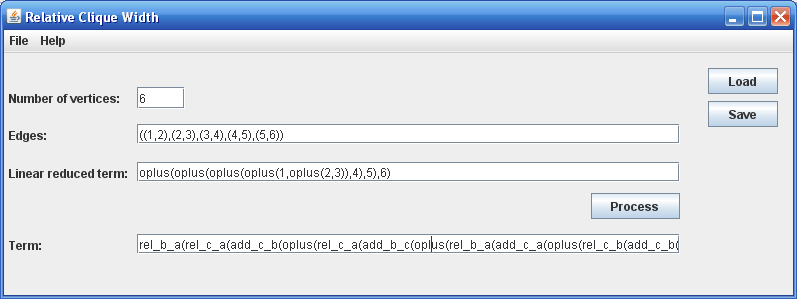
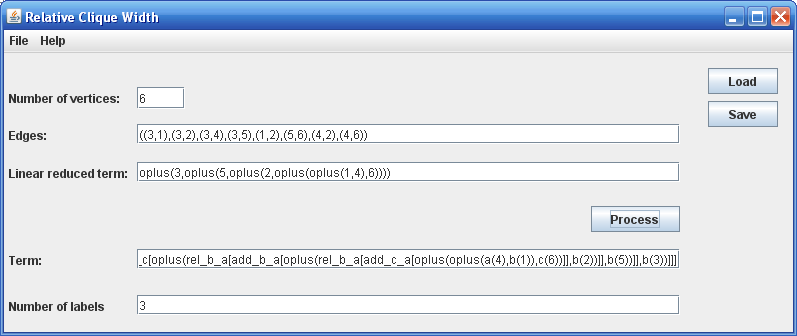
update UI, update report

diff --git a/report/Project-RelativeCliqueWidth_v1.tex b/report/Project-RelativeCliqueWidth_v1.tex
@@ -14,6 +14,7 @@
 \usepackage{algpseudocode}% http://ctan.org/pkg/algorithmicx
 \usepackage{listings}
 \usepackage[english]{babel} % for table %
+\usepackage{seqsplit}
 
 \begin{document}
 \title {Implementation of a polynomial time algorithm to determine relative clique-width of a graph}
@@ -161,7 +162,7 @@ it means \textit {$\gamma_{t(s)}$}assigns the same label to two vertices iff the
 \item \textit {$\gamma_{t(s_{1})}\cap\gamma_{t(s_{2})}=\emptyset$} \end{enumerate}
 \end{enumerate}
 
-Following is pseudo-code of a recursive function constructing a term for a linear reduced term {$s=rTerm\oplus vertex$}. This function uses some notations of Java programming language
+Algorithm 1 is pseudo-code of a recursive function constructing a term for a linear reduced term {$s=rTerm\oplus vertex$}. This function uses some notations of Java programming language
 
 \begin{algorithm}
 \caption{Term constructing algorithm}
@@ -197,7 +198,7 @@ If $s=s_{1}\oplus s_{2}$ is a sub-term of r, then every partite sets of \textit 
 \end{quotation}
 
 \begin{quotation}
-Call $U_{s_{1}}$and $U_{s_{2}}$is sets of partite set of $H_{s_{1}}$ and $H_{s_{2}}$, we have Algorithm 1 as follows:
+Call $U_{s_{1}}$and $U_{s_{2}}$is sets of partite set of $H_{s_{1}}$ and $H_{s_{2}}$, we have Algorithm 2 as follows:
 \end{quotation}
 
 \begin{algorithm}[H]
@@ -349,8 +350,8 @@ The program takes following as input:
 For example\textit { }oplus(oplus(oplus(oplus(1,oplus (2, 3)), 4) , 5),6). To leverage the input readability, two types of parenthesis, \textit {()} and \textit {{[}{]}} are supported, it means someone can input oplus{[}oplus{[}oplus(oplus(1, oplus (2, 3)),4), 5{]}, 6{]}
 \end{itemize}
 
-The program will output a term \textit t such that \textit {$val(t)=(G,\gamma)$} and \textit {red(t) = r} and the number of labels used in t is minimum. For example, with the reduced term r as above, the program will output: \textit{rel\_b\_a(rel\_c\_a(add\_c\_b(oplus(rel\_c\_a(add\_b\_c(oplus(rel\_b\_a(\\
-add\_c\_a(oplus(rel\_c\_b(add\_c\_b(oplus(add\_b\_a(oplus(a(3),b(2))),c(1)))),c(4)))),b(5)))),c(6)))))}
+The program will output a term \textit t such that \textit {$val(t)=(G,\gamma)$} and \textit {red(t) = r} and the number of labels used in t is minimum. For example, with the reduced term r as above, the program will output: \textit{\seqsplit{rel\_c\_a[rel\_b\_a[add\_c\_b[oplus(rel\_c\_a[add\_b\_c[oplus(rel\_b\_a[add\_c\_a[oplus(rel\_c\_b[add\_c\_b[oplus(add\_b\_a[oplus(a(3),b(2))],c(1))]],c(4))]],b(5))]],c(6))]]]}}
+
 
 %section 3.2 Program specification}%
 \subsection{Program specification}
@@ -552,70 +553,63 @@ In this section, we introduce some more test cases for the first graph, which wa
 \item Test case 1
 	\begin{itemize}
 		\item Edges: ((1,2),(2,3),(3,4),(4,5),(5,6))
-		\item Sequence of vertices: 1,2,3,4,5,6
+		\item Sequence of vertices: 
 		\item Linear reduced term: oplus(oplus(oplus(oplus(1,oplus(2,3)),4),5),6)
-		\item Term: rel\_b\_a(rel\_c\_a(add\_c\_b(oplus(rel\_c\_a(add\_b\_c(oplus(rel\_b\_a(add\_c\_a(oplus( \\
-rel\_c\_b( add\_c\_b(oplus(add\_b\_a(oplus(a(3),b(2))),c(1)))),c(4)))),b(5)))),c(6)))))
+		\item Term: \seqsplit{rel\_c\_a[rel\_b\_a[add\_c\_b[oplus(rel\_c\_a[add\_b\_c[oplus(rel\_b\_a[add\_c\_a[oplus(rel\_c\_b[add\_c\_b[oplus(add\_b\_a[oplus(a(3),b(2))],c(1))]],c(4))]],b(5))]],c(6))]]]}
 		\item Number of labels: 3
 	\end{itemize}
 
 \item Test case 2
 	\begin{itemize}
 		\item Edges: ((6,5),(5,4),(4,3),(3,2),(2,1))
-		\item Sequence of vertices: 1,4,6,2,5,3
+		\item Sequence of vertices: 
 		\item Linear reduced term: oplus(1, oplus(4, oplus(6, oplus(2, oplus(5, 3)))))
-		\item Term: rel\_b\_a(rel\_c\_a(add\_b\_c(oplus(rel\_b\_a(rel\_d\_a(add\_b\_a(add\_b\_a(oplus(rel\_b\_a( \\
-add\_d\_b(oplus(add\_c\_a(oplus(oplus(a(3),b(5)),c(2))),d(6)))),b(4)))))),b(1))))) 
+		\item Term: \seqsplit{rel\_c\_a[rel\_b\_a[add\_b\_c[oplus(rel\_d\_a[rel\_b\_a[add\_b\_a[oplus(rel\_b\_a[add\_d\_b[oplus(add\_c\_a[oplus(oplus(a(3),b(5)),c(2))],d(6))]],b(4))]]],b(1))]]]}
 		\item Number of labels: 4
 	\end{itemize}
 
 \item Test case 3
 	\begin{itemize}
-		\item Edges: ((1,2),(2,3),(3,4),(4,5),(5,6))		
-		\item Sequence of vertices: 1,4,2,5,3,6
+		\item Edges: ((1,2),(2,3),(3,4),(4,5),(5,6))
+		\item Sequence of vertices: 
 		\item Linear reduced term: oplus(1, oplus(4, oplus(2, oplus(5, oplus(3, 6)))))
-		\item Term: rel\_b\_a(rel\_d\_a(add\_b\_d(oplus(rel\_c\_a(rel\_b\_a(add\_c\_b(add\_c\_b(oplus(rel\_c\_b( \\
-add\_d\_b(oplus(add\_c\_a(oplus(oplus(a(6),b(3)),c(5))),d(2)))),c(4)))))),b(1)))))
+		\item Term: \seqsplit{rel\_d\_a[rel\_b\_a[add\_b\_d[oplus(rel\_c\_a[rel\_b\_a[add\_c\_b[oplus(rel\_c\_b[add\_d\_b[oplus(add\_c\_a[oplus(oplus(a(6),b(3)),c(5))],d(2))]],c(4))]]],b(1))]]]}
 		\item Number of labels: 4
 	\end{itemize}
 
 \item Test case 4
 	\begin{itemize}
 		\item Edges: ((1,2),(2,3),(3,4),(4,5),(5,6))
-		\item Sequence of vertices: 1,3,5,6,4,2
+		\item Sequence of vertices: 
 		\item Linear reduced term: oplus(1, oplus(3, oplus(5, oplus(6, oplus(4, 2)))))
-		\item Term: rel\_c\_a(rel\_b\_a(add\_c\_a(oplus(rel\_c\_b(rel\_d\_b(add\_d\_b(add\_d\_a(oplus(rel\_d\_c( \\
-add\_d\_b(add\_d\_c( oplus(oplus(oplus(a(2),b(4)),c(6)),d(5))))),d(3)))))),c(1)))))
+		\item Term: \seqsplit{rel\_c\_a[rel\_b\_a[add\_c\_a[oplus(rel\_d\_b[rel\_c\_b[add\_d\_b[add\_d\_a[oplus(rel\_d\_c[add\_d\_c[add\_d\_b[oplus(oplus(oplus(a(2),b(4)),c(6)),d(5))]]],d(3))]]]],c(1))]]]}
 		\item Number of labels: 4
 	\end{itemize}
 
 \item Test case 5
 	\begin{itemize}
 		\item Edges: ((4,3),(4,5),(6,5),(1,2),(2,3))
-		\item Sequence of vertices: 1,3,6,5,4,2
+		\item Sequence of vertices: 
 		\item Linear reduced term: oplus(1, oplus(3, oplus(6, oplus(5, oplus(4, 2)))))
-		\item Term: rel\_c\_a(rel\_b\_a(add\_c\_a(oplus(rel\_c\_b(rel\_d\_b(add\_d\_b(add\_d\_a(oplus(rel\_d\_c( \\
-add\_d\_c(oplus(add\_c\_b(oplus(oplus( a(2),b(4)),c(5))),d(6)))),d(3)))))),c(1)))))
+		\item Term: \seqsplit{rel\_c\_a[rel\_b\_a[add\_c\_a[oplus(rel\_d\_b[rel\_c\_b[add\_d\_b[add\_d\_a[oplus(rel\_d\_c[add\_d\_c[oplus(add\_c\_b[oplus(oplus(a(2),b(4)),c(5))],d(6))]],d(3))]]]],c(1))]]]}
 		\item Number of labels: 4
 	\end{itemize}
 
 \item Test case 6
 	\begin{itemize}
 		\item Edges: ((5,4),(6,5),(2,1),(3,2),(4,3))
-		\item Sequence of vertices: 6,4,2,5,3,1
-		\item Linear reduced term: oplus(6, oplus(5, oplus(1, oplus(oplus(3,4),2)
-		\item Term: rel\_c\_a(rel\_b\_a(add\_b\_c(oplus(rel\_b\_a(add\_c\_a(oplus(rel\_d\_b(rel\_c\_b(add\_d\_c( \\
-oplus(add\_c\_b(oplus(add\_b\_a(oplus( a(4),b(3))),c(2))),d(1))))),c(5)))),b(6))))) 
+		\item Sequence of vertices: 
+		\item Linear reduced term: oplus(6, oplus(5, oplus(1, oplus(oplus(3,4),2))))
+		\item Term: \seqsplit{rel\_c\_a[rel\_b\_a[add\_b\_c[oplus(rel\_b\_a[add\_c\_a[oplus(rel\_d\_b[rel\_c\_b[add\_d\_c[oplus(add\_c\_b[oplus(add\_b\_a[oplus(a(4),b(3))],c(2))],d(1))]]],c(5))]],b(6))]]]}
 		\item Number of labels: 4
 	\end{itemize}
 
 \item Test case 7
 	\begin{itemize}
 		\item Edges: ((1,2),(6,5),(4,5),(3,4),(2,3))
-		\item Sequence of vertices: 2,3,5,1,6,4
+		\item Sequence of vertices: 
 		\item Linear reduced term: oplus(oplus(oplus(1,oplus(oplus(3,5),2)),6),4)
-		\item Term: rel\_b\_a(rel\_c\_a(add\_b\_a(add\_b\_a(oplus(rel\_d\_c(rel\_b\_a(add\_d\_a(oplus(rel\_d\_c( \\
-add\_d\_c(oplus(add\_c\_b(oplus(oplus( a(5),b(3)),c(2))),d(1)))),d(6))))),b(4))))))
+		\item Term: \seqsplit{rel\_c\_a[rel\_b\_a[add\_b\_a[oplus(rel\_d\_c[rel\_b\_a[add\_d\_a[oplus(rel\_d\_c[add\_d\_c[oplus(add\_c\_b[oplus(oplus(a(5),b(3)),c(2))],d(1))]],d(6))]]],b(4))]]]}
 		\item Number of labels: 4
 	\end{itemize}
 \end{itemize}
@@ -634,76 +628,63 @@ The second graph is
 \item Test case 1
 	\begin{itemize}
 		\item Edges: ((1,2),(1,3),(2,3),(2,4),(3,4),(3,5),(4,6),(5,6))
-		\item Sequence of vertices: 1,2,3,4,5,6
+		\item Sequence of vertices: 
 		\item Linear reduced term: oplus(1, oplus(2, oplus(3, oplus(4, oplus(5, 6)))))
-		\item Term: rel\_c\_a(rel\_b\_a(add\_c\_b(add\_c\_b(oplus(rel\_c\_a(rel\_d\_b(add\_b\_c(add\_b\_d(oplus( \\ rel\_b\_a(add\_d\_c(add\_d\_b(oplus(add\_c\_a(oplus(add\_b\_a(oplus(a(6),b(5))),c(4))),d(3))))), \\
-b(2)))))),c(1))))))
+		\item Term: \seqsplit{rel\_c\_a[rel\_b\_a[add\_c\_b[oplus(rel\_d\_b[rel\_c\_a[add\_b\_d[add\_b\_c[oplus(rel\_b\_a[add\_d\_c[add\_d\_b[oplus(add\_c\_a[oplus(add\_b\_a[oplus(a(6),b(5))],c(4))],d(3))]]],b(2))]]]],c(1))]]]}
 		\item Number of labels: 4
 	\end{itemize}
 
 \item Test case 2
 	\begin{itemize}
 		\item Edges: ((2,3),(2,4),(3,1),(1,2),(4,3),(6,4),(6,5),(3,5))
-		\item Sequence of vertices: 2,6,3,5,4,1
+		\item Sequence of vertices: 
 		\item Linear reduced term: oplus(2,oplus(6,oplus(oplus(oplus(3,5),4),1)))
-		\item Term: rel\_c\_a(rel\_b\_a(add\_c\_b(add\_c\_b(add\_c\_b(oplus(rel\_c\_b(rel\_d\_a(add\_d\_c( \\
-add\_d\_a(oplus(rel\_d\_b(add\_d\_b(oplus(add\_c\_b(oplus(add\_b\_a(oplus(a(5),b(3))),c(4))), \\
-d(1)))),d(6)))))), c(2)))))))
+		\item Term: \seqsplit{rel\_c\_a[rel\_b\_a[add\_c\_b[oplus(rel\_d\_a[rel\_c\_b[add\_d\_c[add\_d\_a[oplus(rel\_d\_b[add\_d\_b[oplus(add\_c\_b[oplus(add\_b\_a[oplus(a(5),b(3))],c(4))],d(1))]],d(6))]]]],c(2))]]]}
 		\item Number of labels: 4
 	\end{itemize}
 
 \item Test case 3
 	\begin{itemize}
-		\item Edges: ((3,4),(4,6),(6,5),(5,3),(4,2),(2,1),(2,3),(1,3))		
-		\item Sequence of vertices: 1,3,5,6,4,2
+		\item Edges: ((3,4),(4,6),(6,5),(5,3),(4,2),(2,1),(2,3),(1,3))
+		\item Sequence of vertices: 
 		\item Linear reduced term: oplus(oplus(oplus(oplus(1,oplus(3,5)),6),4),2)
-		\item Term: rel\_c\_a(rel\_b\_a(add\_c\_b(add\_c\_b(add\_c\_b(oplus(rel\_e\_b(rel\_c\_b(rel\_d\_a( \\
-add\_e\_d(add\_e\_b(oplus(add\_d\_a(oplus(add\_c\_b(oplus(add\_b\_a(oplus(a(5),b(3))),c(1))), \\
-d(6))),e(4))))))),c(2)))))))
-		\item Number of labels: 4
+		\item Term: \seqsplit{rel\_c\_a[rel\_b\_a[add\_c\_b[oplus(rel\_e\_b[rel\_d\_a[rel\_c\_b[add\_e\_d[add\_e\_b[oplus(add\_d\_a[oplus(add\_c\_b[oplus(add\_b\_a[oplus(a(5),b(3))],c(1))],d(6))],e(4))]]]]],c(2))]]]}
+		\item Number of labels: 5
 	\end{itemize}
 
 \item Test case 4
 	\begin{itemize}
 		\item Edges: ((1,3),(3,5),(5,6),(6,4),(4,2),(2,1),(3,2),(3,4))
-		\item Sequence of vertices: 4,6,3,5,1,2
+		\item Sequence of vertices: 
 		\item Linear reduced term: oplus(4,oplus(6,oplus(oplus(oplus(3,5),1),2)))
-		\item Term: rel\_c\_a(rel\_b\_a(add\_c\_b(add\_c\_b(add\_c\_b(oplus(rel\_d\_b(rel\_c\_a(add\_d\_a( \\ 
-oplus(rel\_d\_b(add\_d\_c(add\_d\_b(oplus(add\_c\_b(oplus(add\_b\_a(oplus(a(5),b(3))),c(1))), \\
-d(2))))),d(6))))),c(4)))))))
+		\item Term: \seqsplit{rel\_c\_a[rel\_b\_a[add\_c\_b[oplus(rel\_d\_b[rel\_c\_a[add\_d\_a[oplus(rel\_d\_b[add\_d\_c[add\_d\_b[oplus(add\_c\_b[oplus(add\_b\_a[oplus(a(5),b(3))],c(1))],d(2))]]],d(6))]]],c(4))]]]}
 		\item Number of labels: 4
 	\end{itemize}
 
 \item Test case 5
 	\begin{itemize}
 		\item Edges: ((2,4),(4,6),(1,3),(3,5),(5,6),(2,1),(3,2),(3,4))
-		\item Sequence of vertices: 2,4,6,5,3,1
+		\item Sequence of vertices: 
 		\item Linear reduced term: oplus(2,oplus(4,oplus(oplus(oplus(6,5),3),1)))
-		\item Term: rel\_b\_a(rel\_c\_a(add\_b\_c(add\_b\_c(add\_b\_c(oplus(rel\_b\_a(rel\_e\_c(rel\_d\_c( \\
-add\_e\_b(add\_e\_c(oplus(add\_d\_c(oplus(add\_c\_a(oplus(add\_b\_a(oplus(a(5),b(6))),c(3))), \\
-d(1))),e(4))))))),b(2)))))))
+		\item Term: \seqsplit{rel\_c\_a[rel\_b\_a[add\_b\_c[oplus(rel\_e\_c[rel\_d\_c[rel\_b\_a[add\_e\_c[add\_e\_b[oplus(add\_d\_c[oplus(add\_c\_a[oplus(add\_b\_a[oplus(a(5),b(6))],c(3))],d(1))],e(4))]]]]],b(2))]]]}
 		\item Number of labels: 5
 	\end{itemize}
 
 \item Test case 6
 	\begin{itemize}
-		\item Edges: ((3,1),(3,2),(3,4),(3,5),(1,2),(5,6),(4,2),(4,6))		
-		\item Sequence of vertices: 3,5,2,1,4,6
+		\item Edges: ((3,1),(3,2),(3,4),(3,5),(1,2),(5,6),(4,2),(4,6))
+		\item Sequence of vertices: 
 		\item Linear reduced term: oplus(3,oplus(5,oplus(2,oplus(oplus(1,4),6))))
-		\item Term: rel\_c\_a(rel\_b\_a(add\_b\_a(add\_b\_a(add\_b\_a(add\_b\_a(oplus(rel\_b\_a(add\_b\_c \\ 
-(oplus(rel\_b\_a(add\_b\_a(add\_b\_a(oplus(rel\_b\_a(add\_c\_a(oplus(oplus(a(4),b(1)),c(6)))), \\
-b(2))))),b(5)))),b(3))))))))
+		\item Term: \seqsplit{rel\_c\_a[rel\_b\_a[add\_b\_a[oplus(rel\_b\_a[add\_b\_c[oplus(rel\_b\_a[add\_b\_a[oplus(rel\_b\_a[add\_c\_a[oplus(oplus(a(4),b(1)),c(6))]],b(2))]],b(5))]],b(3))]]]}
 		\item Number of labels: 3
 	\end{itemize}
 
 \item Test case 7
 	\begin{itemize}
-		\item Edges: ((6,5),(5,3),(3,1),(1,2),(2,4),(4,6),(4,3),(3,2))		
-		\item Sequence of vertices: 6,5,4,1,2,3
+		\item Edges: ((6,5),(5,3),(3,1),(1,2),(2,4),(4,6),(4,3),(3,2))
+		\item Sequence of vertices: 
 		\item Linear reduced term: oplus(6,oplus(5,oplus(4,oplus(1,oplus(2,3)))))
-		\item Term: rel\_c\_a(rel\_b\_a(add\_b\_c(add\_b\_c(oplus(rel\_d\_c(rel\_b\_a(add\_c\_a(oplus(rel\_c\_b( \\
-add\_d\_b( add\_d\_a(oplus(add\_c\_b(add\_c\_a(oplus(add\_b\_a(oplus(a(3),b(2))),c(1)))), \\
-d(4))))), c(5))))),b(6))))))
+		\item Term: \seqsplit{rel\_c\_a[rel\_b\_a[add\_b\_c[oplus(rel\_d\_c[rel\_b\_a[add\_c\_a[oplus(rel\_c\_b[add\_d\_b[add\_d\_a[oplus(add\_c\_b[add\_c\_a[oplus(add\_b\_a[oplus(a(3),b(2))],c(1))]],d(4))]]],c(5))]]],b(6))]]]}
 		\item Number of labels: 4
 	\end{itemize}
 \end{itemize}

diff --git a/src/main/java/puf/m2/rcw/MainFrame.java b/src/main/java/puf/m2/rcw/MainFrame.java
@@ -1,10 +1,9 @@
 package puf.m2.rcw;
 
-import java.awt.EventQueue;
-
 import javax.swing.JFrame;
 import javax.swing.JPanel;
 import javax.swing.border.EmptyBorder;
+import javax.swing.JFileChooser;
 import javax.swing.JMenuBar;
 import javax.swing.JOptionPane;
 import javax.swing.SpringLayout;
@@ -19,6 +18,11 @@ import puf.m2.rcw.term.Term;
 
 import java.awt.event.ActionListener;
 import java.awt.event.ActionEvent;
+import java.io.BufferedReader;
+import java.io.DataInputStream;
+import java.io.FileInputStream;
+import java.io.FileNotFoundException;
+import java.io.InputStreamReader;
 
 public class MainFrame extends JFrame {
 
@@ -28,15 +32,17 @@ public class MainFrame extends JFrame {
     private JTextField textEdges;
     private JTextField textReducedTerm;
     private JTextField textTerm;
+    private JTextField textUsedLabels;
 
-
+    private final JFileChooser fc = new JFileChooser();
+    private final MainFrame me = this;
     /**
      * Create the frame.
      */
     public MainFrame() {
         setTitle("Relative Clique Width");
         setDefaultCloseOperation(JFrame.EXIT_ON_CLOSE);
-        setBounds(100, 100, 797, 299);
+        setBounds(100, 100, 797, 336);
         
         JMenuBar menuBar = new JMenuBar();
         setJMenuBar(menuBar);
@@ -100,43 +106,82 @@ public class MainFrame extends JFrame {
         textReducedTerm.setColumns(10);
         
         JButton btnLoad = new JButton("Load");
+        btnLoad.addActionListener(new ActionListener() {
+            public void actionPerformed(ActionEvent e) {
+                int result = fc.showOpenDialog(me);
+                if (result == JFileChooser.APPROVE_OPTION) {
+                    DataInputStream dis;
+                    try {
+                        dis = new DataInputStream(new FileInputStream(fc.getSelectedFile()));
+                    
+                    BufferedReader br = new BufferedReader(new InputStreamReader(dis));
+
+                    textVerNumber.setText(br.readLine());
+                    textReducedTerm.setText(br.readLine());
+                    textEdges.setText(br.readLine());
+                    
+                    dis.close();
+                    } catch (Exception ex) {
+                        JOptionPane.showMessageDialog(null, "Invalid File", "Alert", JOptionPane.ERROR_MESSAGE); 
+                    }
+                }
+            }
+        });
         sl_contentPane.putConstraint(SpringLayout.NORTH, btnLoad, 10, SpringLayout.NORTH, contentPane);
         sl_contentPane.putConstraint(SpringLayout.WEST, btnLoad, -80, SpringLayout.EAST, contentPane);
         sl_contentPane.putConstraint(SpringLayout.EAST, btnLoad, -10, SpringLayout.EAST, contentPane);
         contentPane.add(btnLoad);
         
         JButton btnSave = new JButton("Save");
+        btnSave.addActionListener(new ActionListener() {
+            public void actionPerformed(ActionEvent e) {
+            }
+        });
         sl_contentPane.putConstraint(SpringLayout.NORTH, btnSave, 7, SpringLayout.SOUTH, btnLoad);
         sl_contentPane.putConstraint(SpringLayout.WEST, btnSave, -80, SpringLayout.EAST, contentPane);
         sl_contentPane.putConstraint(SpringLayout.EAST, btnSave, -10, SpringLayout.EAST, contentPane);
         contentPane.add(btnSave);
         
         JButton btnProcess = new JButton("Process");
+        sl_contentPane.putConstraint(SpringLayout.NORTH, btnProcess, 24, SpringLayout.SOUTH, textReducedTerm);
+        sl_contentPane.putConstraint(SpringLayout.WEST, btnProcess, -197, SpringLayout.EAST, contentPane);
+        sl_contentPane.putConstraint(SpringLayout.EAST, btnProcess, -108, SpringLayout.EAST, contentPane);
         btnProcess.addActionListener(new ActionListener() {
             public void actionPerformed(ActionEvent e) {
                 try {
                     Term term = Main.constructTerm(textReducedTerm.getText(), textEdges.getText());
                     textTerm.setText(term.toString());
+                    textUsedLabels.setText(Integer.toString(term.getUsedLabels().size()));
                 } catch (RcwException e1) {
                     JOptionPane.showMessageDialog(null, "Invalid Input", "Alert", JOptionPane.ERROR_MESSAGE); 
                 }
             }
         });
-        sl_contentPane.putConstraint(SpringLayout.WEST, btnProcess, -197, SpringLayout.EAST, contentPane);
-        sl_contentPane.putConstraint(SpringLayout.EAST, btnProcess, 0, SpringLayout.EAST, textEdges);
         contentPane.add(btnProcess);
         
         JLabel Term = new JLabel("Term:");
         sl_contentPane.putConstraint(SpringLayout.WEST, Term, 0, SpringLayout.WEST, lblNewLabel);
-        sl_contentPane.putConstraint(SpringLayout.SOUTH, Term, -37, SpringLayout.SOUTH, contentPane);
         contentPane.add(Term);
         
         textTerm = new JTextField();
-        sl_contentPane.putConstraint(SpringLayout.SOUTH, btnProcess, -15, SpringLayout.NORTH, textTerm);
-        sl_contentPane.putConstraint(SpringLayout.NORTH, textTerm, -3, SpringLayout.NORTH, Term);
+        sl_contentPane.putConstraint(SpringLayout.NORTH, Term, 3, SpringLayout.NORTH, textTerm);
+        sl_contentPane.putConstraint(SpringLayout.NORTH, textTerm, 17, SpringLayout.SOUTH, btnProcess);
         sl_contentPane.putConstraint(SpringLayout.WEST, textTerm, 0, SpringLayout.WEST, textVerNumber);
         sl_contentPane.putConstraint(SpringLayout.EAST, textTerm, 0, SpringLayout.EAST, textEdges);
         contentPane.add(textTerm);
         textTerm.setColumns(10);
+        
+        JLabel lblNewLabel_3 = new JLabel("Number of labels");
+        sl_contentPane.putConstraint(SpringLayout.NORTH, lblNewLabel_3, 30, SpringLayout.SOUTH, Term);
+        sl_contentPane.putConstraint(SpringLayout.WEST, lblNewLabel_3, 0, SpringLayout.WEST, lblNewLabel);
+        contentPane.add(lblNewLabel_3);
+        
+        textUsedLabels = new JTextField();
+        sl_contentPane.putConstraint(SpringLayout.NORTH, textUsedLabels, -3, SpringLayout.NORTH, lblNewLabel_3);
+        sl_contentPane.putConstraint(SpringLayout.WEST, textUsedLabels, 0, SpringLayout.WEST, textVerNumber);
+        sl_contentPane.putConstraint(SpringLayout.SOUTH, textUsedLabels, -12, SpringLayout.SOUTH, contentPane);
+        sl_contentPane.putConstraint(SpringLayout.EAST, textUsedLabels, 0 , SpringLayout.EAST, textEdges);
+        contentPane.add(textUsedLabels);
+        textUsedLabels.setColumns(10);
     }
 }
